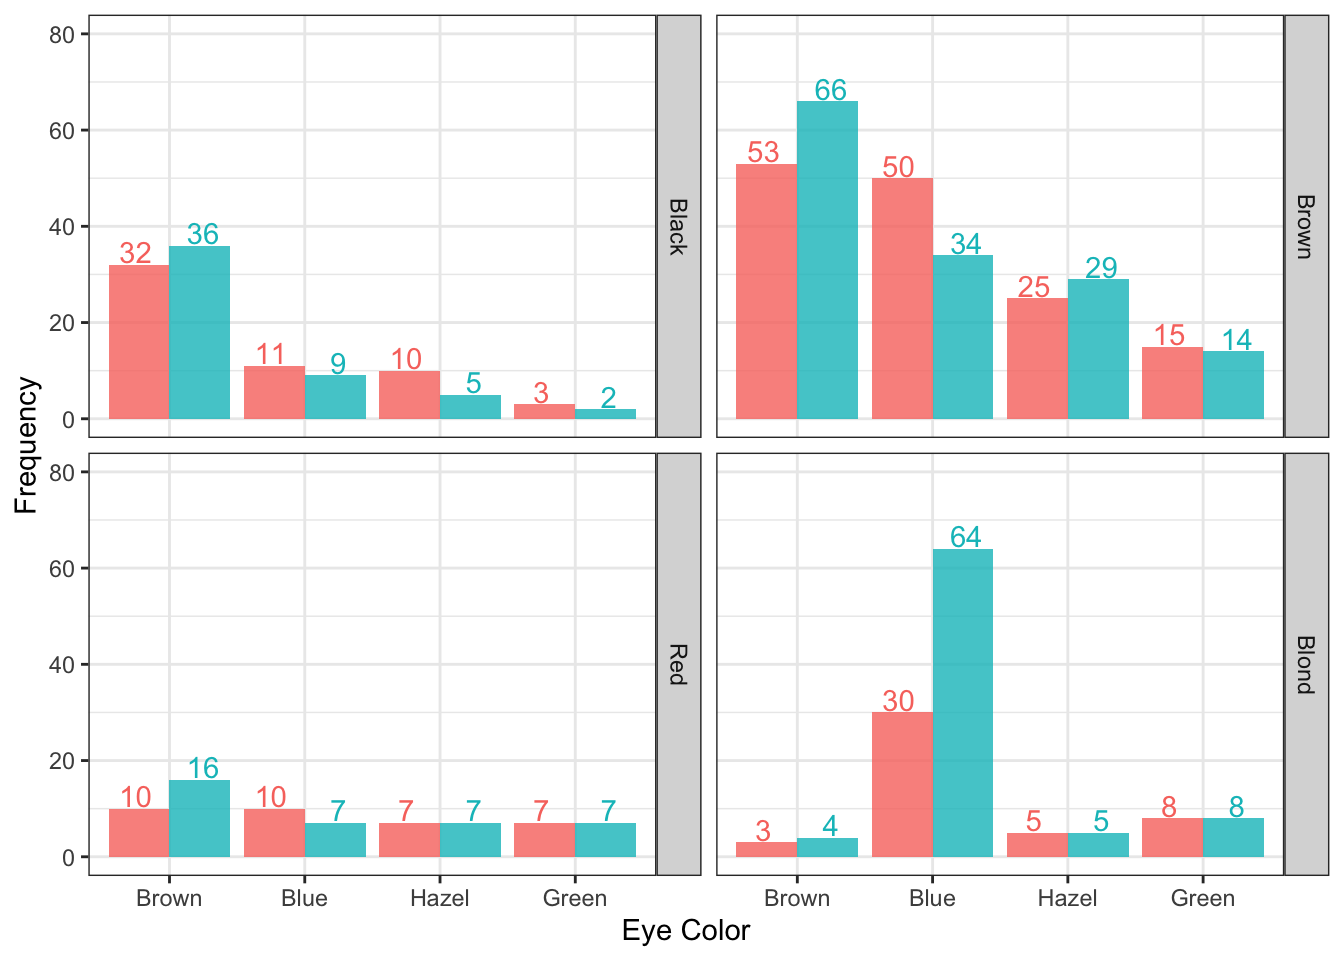
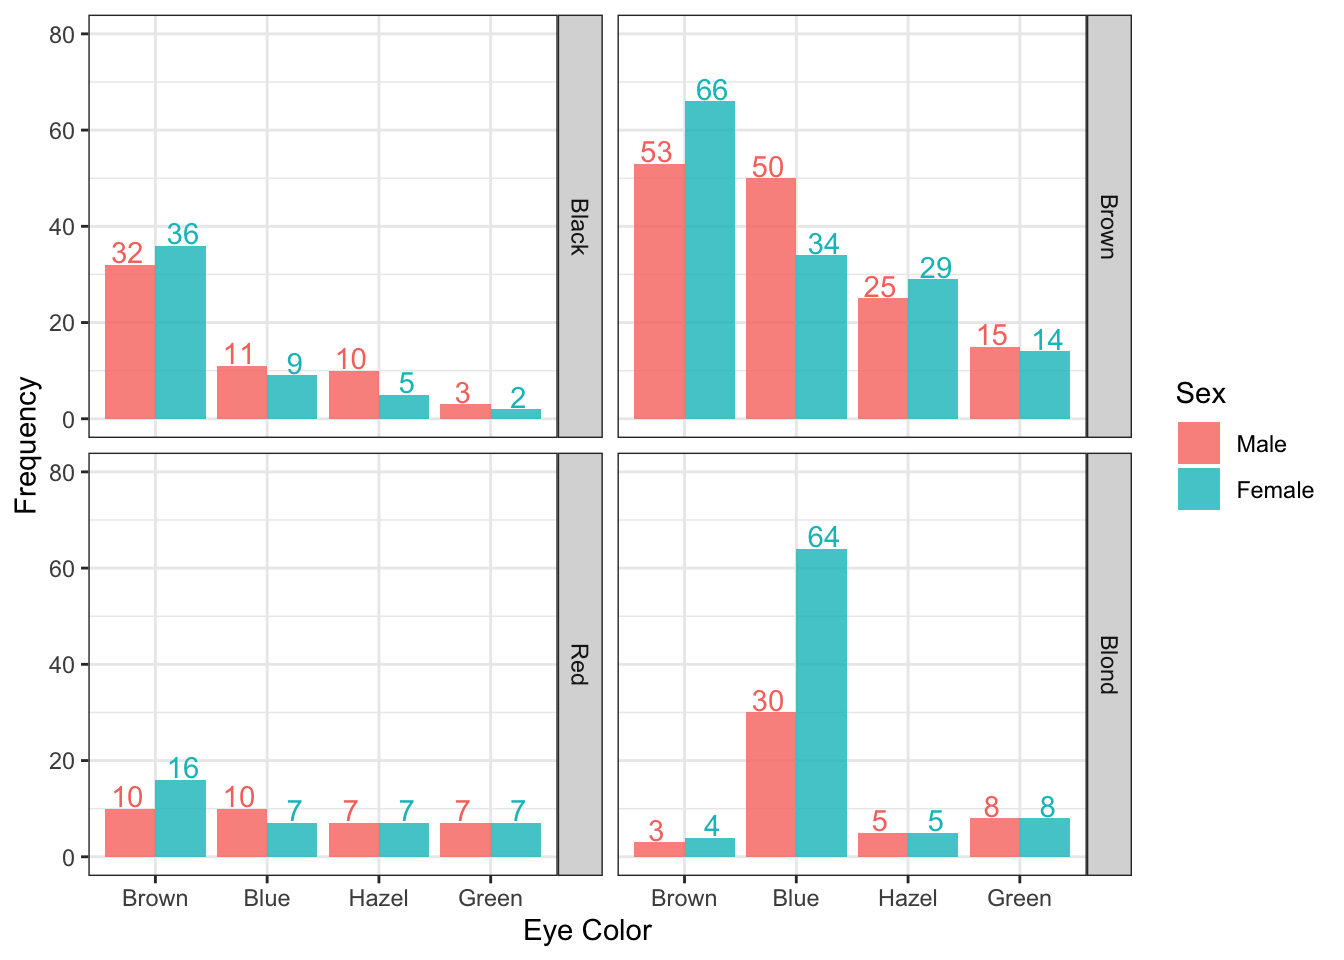
update 2023-08-27

diff --git a/docs/posts/nb_001/index.html b/docs/posts/nb_001/index.html
@@ -6,7 +6,7 @@
 
 <meta name="viewport" content="width=device-width, initial-scale=1.0, user-scalable=yes">
 
-<meta name="author" content="Junho (Sean) Ahn">
+<meta name="author" content="Sean Ahn 📧">
 <meta name="dcterms.date" content="2023-08-19">
 
 <title>:: blog :: - Bar Plot with HairEyeColor</title>
@@ -182,7 +182,7 @@ code span.wa { color: #60a0b0; font-weight: bold; font-style: italic; } /* Warni
       <div>
       <div class="quarto-title-meta-heading">Author</div>
       <div class="quarto-title-meta-contents">
-               <p>Junho (Sean) Ahn </p>
+               <p>Sean Ahn <a href="mailto:junho.ahn@gmail.com">📧</a> </p>
             </div>
     </div>
       
@@ -217,8 +217,8 @@ code span.wa { color: #60a0b0; font-weight: bold; font-style: italic; } /* Warni
 <span id="cb1-3"><a href="#cb1-3" aria-hidden="true" tabindex="-1"></a><span class="fu">gc</span>()</span></code><button title="Copy to Clipboard" class="code-copy-button"><i class="bi"></i></button></pre></div>
 <div class="cell-output cell-output-stdout">
 <pre><code>          used (Mb) gc trigger (Mb) limit (Mb) max used (Mb)
-Ncells  577974 30.9    1316651 70.4         NA   669405 35.8
-Vcells 1056108  8.1    8388608 64.0      16384  1851688 14.2</code></pre>
+Ncells  733334 39.2    1272455   68         NA  1272455 68.0
+Vcells 1297552  9.9    8388608   64      16384  1908739 14.6</code></pre>
 </div>
 </div>
 <div class="cell">
@@ -352,10 +352,13 @@ Hair    Brown Blue Hazel Green
 </div>
 </div>
 <p><br></p>
+<p>If you were to draw a bar plot to visualize a dataset such as HairEyeColor, you would probably draw a plot like the one below.</p>
+<p>I’ve plotted a bar plot with men and women represented by different colors and separated by hair color using <code>facet_wrap()</code>.</p>
+<p>If we just plotted a bar plot, it would be hard to tell the exact values, so we used <code>geom_text()</code> to display the values above each bar. If you want to use <code>geom_text()</code> to display the values, be sure to write <strong>label = “the value you want to display”</strong> in <code>aes()</code> of <code>ggplot()</code>.</p>
 <div class="cell">
 <div class="sourceCode cell-code" id="cb13"><pre class="sourceCode r code-with-copy"><code class="sourceCode r"><span id="cb13-1"><a href="#cb13-1" aria-hidden="true" tabindex="-1"></a>df <span class="sc">|&gt;</span> </span>
 <span id="cb13-2"><a href="#cb13-2" aria-hidden="true" tabindex="-1"></a>  <span class="fu">ggplot</span>(<span class="fu">aes</span>(<span class="at">x =</span> Eye, <span class="at">y =</span> Freq, <span class="at">fill =</span> Sex, <span class="at">label =</span> Freq)) <span class="sc">+</span></span>
-<span id="cb13-3"><a href="#cb13-3" aria-hidden="true" tabindex="-1"></a>  <span class="fu">geom_col</span>(<span class="at">alpha =</span> <span class="fl">0.8</span>, <span class="at">position =</span> <span class="st">"dodge"</span>, <span class="at">show.legend =</span> <span class="cn">FALSE</span>) <span class="sc">+</span></span>
+<span id="cb13-3"><a href="#cb13-3" aria-hidden="true" tabindex="-1"></a>  <span class="fu">geom_col</span>(<span class="at">alpha =</span> <span class="fl">0.8</span>, <span class="at">position =</span> <span class="st">"dodge"</span>) <span class="sc">+</span></span>
 <span id="cb13-4"><a href="#cb13-4" aria-hidden="true" tabindex="-1"></a>  <span class="fu">geom_text</span>(<span class="fu">aes</span>(<span class="at">color =</span> Sex, <span class="at">group =</span> Sex), <span class="at">position =</span> <span class="fu">position_dodge</span>(<span class="at">width =</span> <span class="dv">1</span>), <span class="at">vjust =</span> <span class="sc">-</span><span class="fl">0.1</span>, <span class="at">show.legend =</span> <span class="cn">FALSE</span>) <span class="sc">+</span></span>
 <span id="cb13-5"><a href="#cb13-5" aria-hidden="true" tabindex="-1"></a>  <span class="fu">labs</span>(<span class="at">x =</span> <span class="st">"Eye Color"</span>, <span class="at">y =</span> <span class="st">"Frequency"</span>) <span class="sc">+</span></span>
 <span id="cb13-6"><a href="#cb13-6" aria-hidden="true" tabindex="-1"></a>  <span class="fu">facet_wrap</span>(<span class="sc">~</span> Hair, <span class="at">strip.position =</span> <span class="fu">c</span>(<span class="st">"right"</span>)) <span class="sc">+</span></span>
@@ -366,6 +369,10 @@ Hair    Brown Blue Hazel Green
 </div>
 </div>
 <p><br></p>
+<p>Sometimes you want to highlight certain values in a bar graph. For example, if you want to highlight the eye colors that have the most of each in the hair color facet, the following code might be one of the appropriate answers.</p>
+<p>You can also use ggplot extensions (such as <a href="https://yutannihilation.github.io/gghighlight/articles/gghighlight.html">gghighlight</a>), but I only used the ggplot internal functions. The point is that we create one more column called “Chk” and fill it with different colors based on the value of “Chk”.</p>
+<p>This method is fairly simple, but very useful for displaying specific values without affecting the original dataset (no transformations).</p>
+<p>Especially when you have a large number of values to represent and a large number of bars, you can emphasize the message you want by representing certain values with a different color that stands out.</p>
 <div class="cell">
 <div class="sourceCode cell-code" id="cb14"><pre class="sourceCode r code-with-copy"><code class="sourceCode r"><span id="cb14-1"><a href="#cb14-1" aria-hidden="true" tabindex="-1"></a>df <span class="sc">|&gt;</span> </span>
 <span id="cb14-2"><a href="#cb14-2" aria-hidden="true" tabindex="-1"></a>  <span class="fu">group_by</span>(Hair) <span class="sc">|&gt;</span> </span>
@@ -386,6 +393,8 @@ Hair    Brown Blue Hazel Green
 </div>
 </div>
 <p><br></p>
+<p>When creating a bar plot and adding labels, sometimes you need to include both absolute values and percentages (%).</p>
+<p>This code shows what to do in such situations. There are two ways to do this, I’ve used the <code>scales</code> package in the code below, and I’ve commented out the other way of calculating the % value and then adding the “%” symbol. Either way is your choice.</p>
 <div class="cell">
 <div class="sourceCode cell-code" id="cb15"><pre class="sourceCode r code-with-copy"><code class="sourceCode r"><span id="cb15-1"><a href="#cb15-1" aria-hidden="true" tabindex="-1"></a>df <span class="sc">|&gt;</span> </span>
 <span id="cb15-2"><a href="#cb15-2" aria-hidden="true" tabindex="-1"></a>  <span class="fu">filter</span>(Sex <span class="sc">==</span> <span class="st">"Male"</span>) <span class="sc">|&gt;</span> </span>
@@ -407,6 +416,21 @@ Hair    Brown Blue Hazel Green
 </div>
 </div>
 <p><br></p>
+<p>Another option is to overlay a line plot on top of a bar chart, which sometimes makes for a great visualization. Actually it’s not really necessary for this data set, but if you wanted to show changes over time, a line plot like the one below would be very helpful for readers to understand.</p>
+<p>I think this is an example of how ggplot is a powerful visualization tool. 👍</p>
+<div class="callout-tip callout callout-style-default callout-captioned">
+<div class="callout-header d-flex align-content-center">
+<div class="callout-icon-container">
+<i class="callout-icon"></i>
+</div>
+<div class="callout-caption-container flex-fill">
+Tip
+</div>
+</div>
+<div class="callout-body-container callout-body">
+<p>As you can see, when we draw a point, we draw two points for one value. This is to make it look better, so we draw one point large in white and the other small in the same color as the bar. This work makes the distinction between a bar and a point clearer and helps the reader understand the trend of the line more easily.</p>
+</div>
+</div>
 <div class="cell">
 <div class="sourceCode cell-code" id="cb16"><pre class="sourceCode r code-with-copy"><code class="sourceCode r"><span id="cb16-1"><a href="#cb16-1" aria-hidden="true" tabindex="-1"></a>df <span class="sc">|&gt;</span> </span>
 <span id="cb16-2"><a href="#cb16-2" aria-hidden="true" tabindex="-1"></a>  <span class="fu">filter</span>(Sex <span class="sc">==</span> <span class="st">"Female"</span>) <span class="sc">|&gt;</span> </span>
@@ -424,26 +448,6 @@ Hair    Brown Blue Hazel Green
 <span id="cb16-14"><a href="#cb16-14" aria-hidden="true" tabindex="-1"></a>  <span class="fu">theme_bw</span>()</span></code><button title="Copy to Clipboard" class="code-copy-button"><i class="bi"></i></button></pre></div>
 <div class="cell-output-display">
 <p><img src="index_files/figure-html/unnamed-chunk-9-1.png" class="img-fluid" width="672"></p>
-</div>
-</div>
-<p><br></p>
-<div class="cell">
-<div class="sourceCode cell-code" id="cb17"><pre class="sourceCode r code-with-copy"><code class="sourceCode r"><span id="cb17-1"><a href="#cb17-1" aria-hidden="true" tabindex="-1"></a>df <span class="sc">|&gt;</span> </span>
-<span id="cb17-2"><a href="#cb17-2" aria-hidden="true" tabindex="-1"></a>  <span class="fu">filter</span>(Sex <span class="sc">==</span> <span class="st">"Female"</span>) <span class="sc">|&gt;</span> </span>
-<span id="cb17-3"><a href="#cb17-3" aria-hidden="true" tabindex="-1"></a>  <span class="fu">ggplot</span>(<span class="fu">aes</span>(<span class="at">x =</span> Eye, <span class="at">y =</span> Freq, <span class="at">fill =</span> Hair, <span class="at">label =</span> Freq)) <span class="sc">+</span></span>
-<span id="cb17-4"><a href="#cb17-4" aria-hidden="true" tabindex="-1"></a>  <span class="fu">geom_col</span>(<span class="at">alpha =</span> <span class="fl">0.8</span>) <span class="sc">+</span></span>
-<span id="cb17-5"><a href="#cb17-5" aria-hidden="true" tabindex="-1"></a>  <span class="fu">geom_point</span>(<span class="at">color =</span> <span class="st">"white"</span>, <span class="at">size =</span> <span class="dv">4</span>, <span class="at">show.legend =</span> <span class="cn">FALSE</span>) <span class="sc">+</span></span>
-<span id="cb17-6"><a href="#cb17-6" aria-hidden="true" tabindex="-1"></a>  <span class="fu">geom_point</span>(<span class="fu">aes</span>(<span class="at">color =</span> Hair), <span class="at">size =</span> <span class="dv">2</span>, <span class="at">show.legend =</span> <span class="cn">FALSE</span>) <span class="sc">+</span></span>
-<span id="cb17-7"><a href="#cb17-7" aria-hidden="true" tabindex="-1"></a>  <span class="fu">geom_path</span>(<span class="fu">aes</span>(<span class="at">group =</span> Hair, <span class="at">color =</span> Hair), <span class="at">lty =</span> <span class="dv">2</span>, <span class="at">linewidth =</span> <span class="dv">1</span>, <span class="at">show.legend =</span> <span class="cn">FALSE</span>) <span class="sc">+</span></span>
-<span id="cb17-8"><a href="#cb17-8" aria-hidden="true" tabindex="-1"></a>  <span class="fu">geom_text</span>(<span class="fu">aes</span>(<span class="at">color =</span> Hair), <span class="at">vjust =</span> <span class="sc">-</span><span class="fl">1.0</span>, <span class="at">show.legend =</span> <span class="cn">FALSE</span>) <span class="sc">+</span></span>
-<span id="cb17-9"><a href="#cb17-9" aria-hidden="true" tabindex="-1"></a>  <span class="fu">labs</span>(<span class="at">title =</span> <span class="st">"Hair and Eye Color of Statistics Students"</span>,</span>
-<span id="cb17-10"><a href="#cb17-10" aria-hidden="true" tabindex="-1"></a>       <span class="at">subtitle =</span> <span class="st">"Distribution of hair and eye color and sex in 592 statistics students."</span>, </span>
-<span id="cb17-11"><a href="#cb17-11" aria-hidden="true" tabindex="-1"></a>       <span class="at">x =</span> <span class="st">"Eye Color"</span>, <span class="at">y =</span> <span class="st">"Frequency"</span>) <span class="sc">+</span></span>
-<span id="cb17-12"><a href="#cb17-12" aria-hidden="true" tabindex="-1"></a>  <span class="fu">facet_wrap</span>(<span class="sc">~</span> Hair) <span class="sc">+</span></span>
-<span id="cb17-13"><a href="#cb17-13" aria-hidden="true" tabindex="-1"></a>  <span class="fu">scale_y_continuous</span>(<span class="at">limits =</span> <span class="fu">c</span>(<span class="dv">0</span>,<span class="dv">80</span>), <span class="at">breaks =</span> <span class="fu">seq</span>(<span class="dv">0</span>,<span class="dv">80</span>,<span class="dv">20</span>)) <span class="sc">+</span></span>
-<span id="cb17-14"><a href="#cb17-14" aria-hidden="true" tabindex="-1"></a>  <span class="fu">theme_bw</span>()</span></code><button title="Copy to Clipboard" class="code-copy-button"><i class="bi"></i></button></pre></div>
-<div class="cell-output-display">
-<p><img src="index_files/figure-html/unnamed-chunk-10-1.png" class="img-fluid" width="672"></p>
 </div>
 </div>
 <p><br></p>

diff --git a/docs/index.html b/docs/index.html
@@ -362,7 +362,7 @@ Junho (Sean) Ahn
 </a>
 </div>
 </div>
-<div class="quarto-post image-right" data-index="5" data-categories="ggplot,visualization" data-listing-date-sort="1692370800000" data-listing-file-modified-sort="1693055655889" data-listing-reading-time-sort="5.305">
+<div class="quarto-post image-right" data-index="5" data-categories="ggplot,visualization" data-listing-date-sort="1692370800000" data-listing-file-modified-sort="1693126514180" data-listing-reading-time-sort="6.765">
 <div class="thumbnail">
 <p><a href="./posts/nb_001/index.html"> <img src="./posts/nb_001/image.png" class="thumnail-image"> </a></p>
 </div>
@@ -394,10 +394,10 @@ In this blog post, we’ll cover how to plot a bar plot with ggplot2. Bar plots 
 <div class="listing-date">
 Aug 19, 2023
 </div>
-<div class="listing-author">
-Junho (Sean) Ahn
+</a><div class="listing-author"><a href="./posts/nb_001/index.html">
+Sean Ahn </a><a href="mailto:junho.ahn@gmail.com"><code>r emo::ji("e-mail")</code></a>
 </div>
-</a>
+
 </div>
 </div>
 </div>
